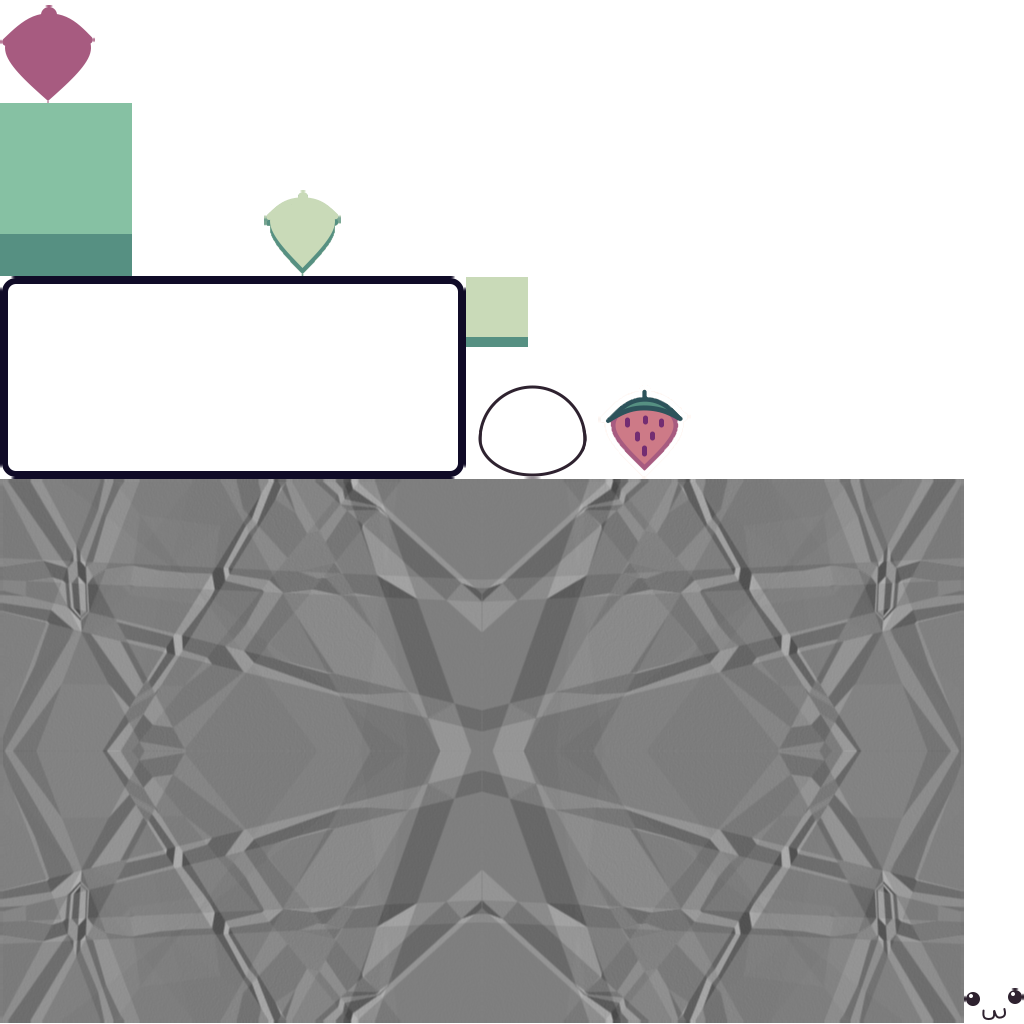
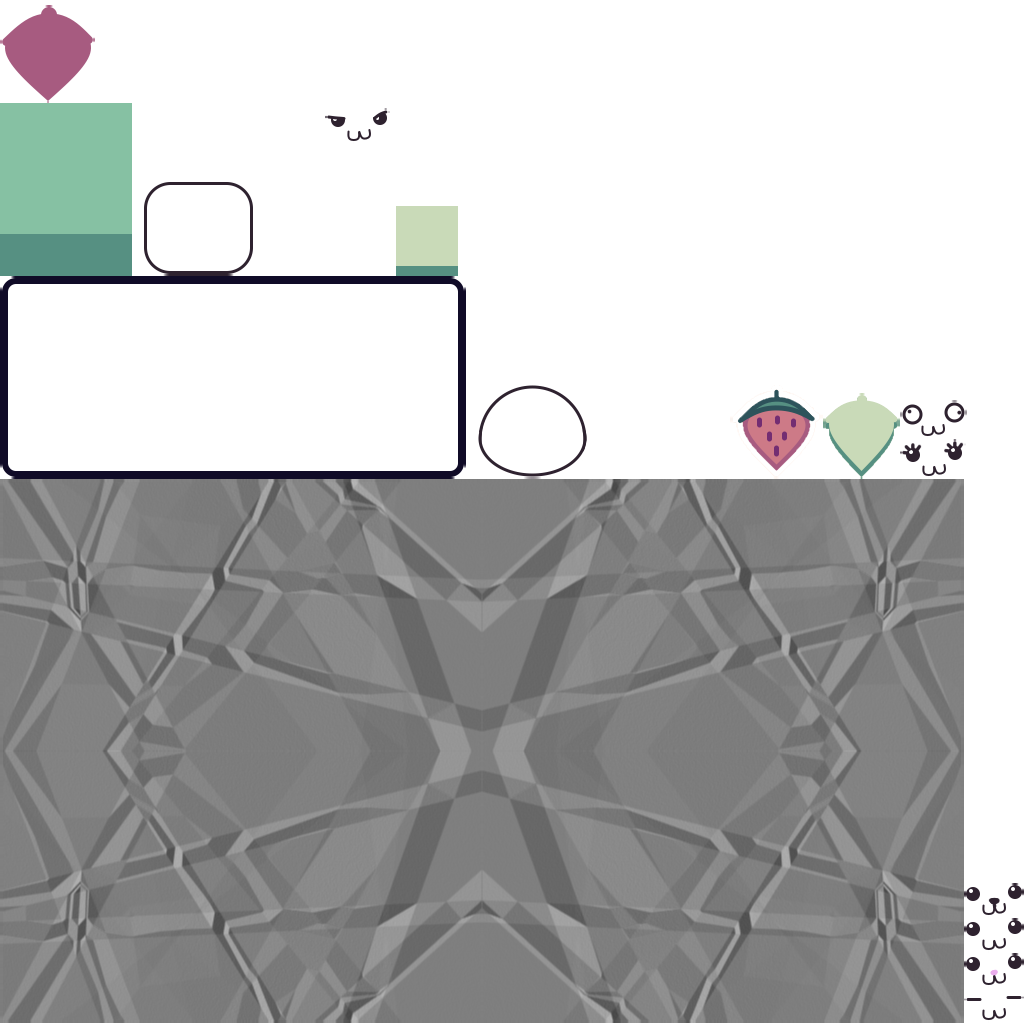
more customization, waves

diff --git a/core/src/main/java/com/distraction/cjspring26/entity/player/PlayerRenderer.java b/core/src/main/java/com/distraction/cjspring26/entity/player/PlayerRenderer.java
@@ -11,19 +11,33 @@ import com.distraction.cjspring26.util.Utils;
 public class PlayerRenderer extends Entity {
 
     public enum BodyType {
-        DEFAULT
+        DEFAULT(-40, 12),
+        BLOCK(-44, 16)
         ;
+        public final float shadowy;
+        public final float highlighty;
 
+        BodyType(float shadowy, float highlighty) {
+            this.shadowy = shadowy;
+            this.highlighty = highlighty;
+        }
     }
 
     public enum BodyColor {
+        WHITE(9, 8),
+        BLACK(2, 1),
         RED(15, 14),
         GREEN(32, 31),
         BLUE(48, 47),
-        PINK(57, 56)
+        PINK(57, 56),
+        PEACH(63, 62),
+        CYAN(43, 42),
+        VIOLET(53, 52),
+        ORANGE(23, 22),
+        YELLOW(28, 27)
         ;
-        public Color color;
-        public Color shadow;
+        public final Color color;
+        public final Color shadow;
 
         BodyColor(int index1, int index2) {
             this.color = Constants.RESURRECT_64[index1];
@@ -32,9 +46,15 @@ public class PlayerRenderer extends Entity {
     }
 
     public enum FaceType {
-        DEFAULT(0)
+        DEFAULTM(0),
+        DEFAULTF(1),
+        SLEEP(2),
+        COOL(3),
+        CRAZY(4),
+        DOG(5),
+        CAT(6)
         ;
-        public int index;
+        public final int index;
 
         FaceType(int index) {
             this.index = index;
@@ -43,9 +63,9 @@ public class PlayerRenderer extends Entity {
 
     private final Player player;
 
-    public BodyType bodyType = BodyType.DEFAULT;
-    public BodyColor bodyColor = BodyColor.PINK;
-    public FaceType faceType = FaceType.DEFAULT;
+    public BodyType bodyType;
+    public BodyColor bodyColor;
+    public FaceType faceType;
 
     private TextureRegion outline;
     private TextureRegion fill;
@@ -58,19 +78,25 @@ public class PlayerRenderer extends Entity {
         super(context);
         this.player = player;
 
-        setBodyType(BodyType.DEFAULT);
-        setFaceType(FaceType.DEFAULT);
+        setBody(BodyType.DEFAULT, BodyColor.PINK);
+        setFaceType(FaceType.DEFAULTM);
 
         w = h = 128;
     }
 
-    public void setBodyType(BodyType bodyType) {
+    public void setBody(BodyType bodyType, BodyColor bodyColor) {
         this.bodyType = bodyType;
+        this.bodyColor = bodyColor;
         if (bodyType == BodyType.DEFAULT) {
             outline = context.getImage("playeroutline");
             fill = context.getImage("playerfill");
             shadow = context.getImage("playershadow");
             highlight = context.getImage("playerhighlight");
+        } else if (bodyType == BodyType.BLOCK) {
+            outline = context.getImage("playeroutlineblock");
+            fill = context.getImage("playerfillblock");
+            shadow = context.getImage("playershadowblock");
+            highlight = context.getImage("playerhighlightblock");
         }
     }
 
@@ -89,9 +115,11 @@ public class PlayerRenderer extends Entity {
         sb.setColor(bodyColor.color);
         Utils.drawCentered(sb, fill, x, y, w, h);
         sb.setColor(bodyColor.shadow);
-        Utils.drawCentered(sb, shadow, x, y - 40);
+        Utils.drawCentered(sb, shadow, x, y + bodyType.shadowy);
         sb.setColor(Color.WHITE);
-        Utils.drawCentered(sb, highlight, x, y + 12);
+        if (highlight != null) {
+            Utils.drawCentered(sb, highlight, x, y + bodyType.highlighty);
+        }
         Utils.drawCentered(sb, outline, x, y, w, h);
 
         // face

diff --git a/core/src/main/java/com/distraction/cjspring26/tile/Tile.java b/core/src/main/java/com/distraction/cjspring26/tile/Tile.java
@@ -10,6 +10,8 @@ import com.distraction.cjspring26.entity.TileEntity;
 
 public class Tile extends TileEntity {
 
+    private static final float WAVE_SPEED = 100;
+
     public boolean water;
     public boolean grass;
     public boolean platform;
@@ -19,6 +21,9 @@ public class Tile extends TileEntity {
     private final TextureRegion pixel;
     private final TextureRegion platformOffImage;
     private final TextureRegion strawberryToggleImage;
+    private final TextureRegion wave;
+
+    private float wavex;
 
     public Tile(Context context, TileMap tileMap, int row, int col) {
         super(context, tileMap);
@@ -26,18 +31,30 @@ public class Tile extends TileEntity {
         pixel = context.getPixel();
         platformOffImage = context.getImage("platformoff");
         strawberryToggleImage = context.getImage("strawberrytoggle");
+        wave = context.getImage("wave");
     }
 
     public boolean canWalk() {
         return (grass || platform) && on;
     }
 
+    @Override
+    public void update(float dt) {
+        super.update(dt);
+        wavex = WAVE_SPEED * context.clock;
+        wavex %= wave.getRegionWidth();
+    }
+
+    @Override
     public void render(SpriteBatch sb) {
         if (grass || platform) {
             sb.setColor(Constants.GRASS);
             Utils.drawCenteredScaled(sb, pixel, x, y, TileMap.TILE_WIDTH, TileMap.TILE_HEIGHT + 1, toggleScale);
             sb.setColor(Constants.GRASS_SHADOW);
             Utils.drawCenteredScaled(sb, pixel, x, y - TileMap.TILE_HEIGHT / 2f - 20, TileMap.TILE_WIDTH, 40, toggleScale);
+            sb.setColor(Constants.WATER);
+            Utils.drawCentered(sb, wave, x + wavex, y - 100);
+            Utils.drawCentered(sb, wave, x + wavex - wave.getRegionWidth(), y - 100);
         }
         if (platform && !on && toggleTime <= 0) {
             sb.setColor(Color.WHITE);

diff --git a/core/src/main/java/com/distraction/cjspring26/Context.java b/core/src/main/java/com/distraction/cjspring26/Context.java
@@ -23,6 +23,8 @@ public class Context {
     private final BitmapFont font;
     private final BitmapFont dialogFont;
 
+    public float clock;
+
     public Context() {
         assets = new AssetManager();
         assets.load(ATLAS, TextureAtlas.class);
@@ -43,6 +45,10 @@ public class Context {
         audio = new AudioHandler();
 
         sm = new ScreenManager(new com.distraction.cjspring26.screens.PlayScreen(this));
+    }
+
+    public void incrementClock(float dt) {
+        clock += dt;
     }
 
     public TextureRegion getImage(String key) {

diff --git a/core/src/main/java/com/distraction/cjspring26/Main.java b/core/src/main/java/com/distraction/cjspring26/Main.java
@@ -34,6 +34,7 @@ public class Main extends ApplicationAdapter {
 
     @Override
     public void render() {
+        context.incrementClock(Gdx.graphics.getDeltaTime());
         context.sm.input();
         context.sm.update(Gdx.graphics.getDeltaTime());
         context.sm.render();
